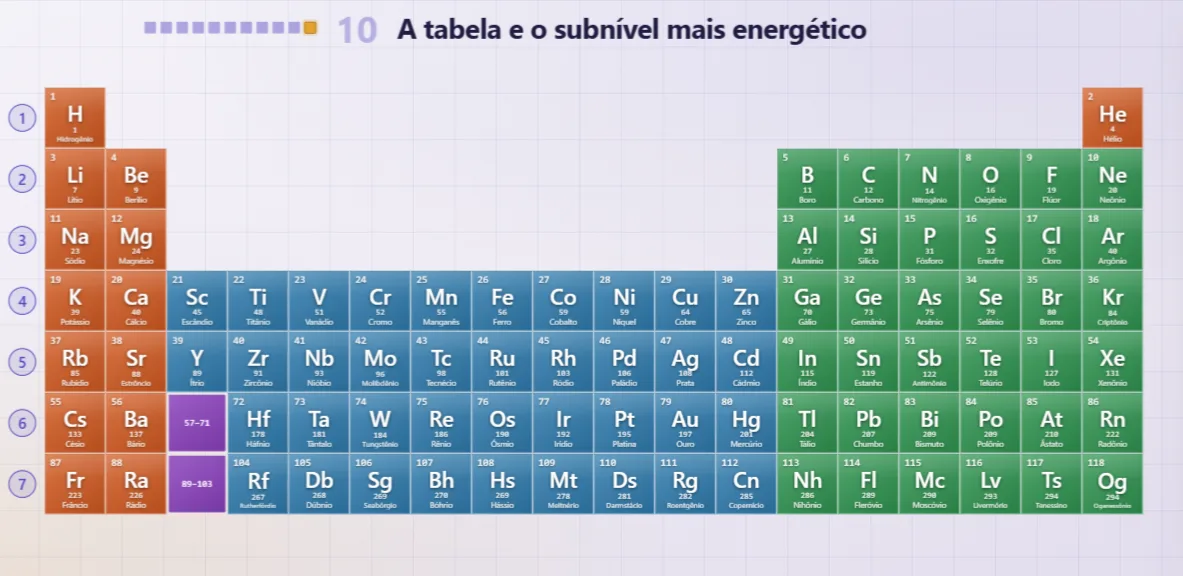
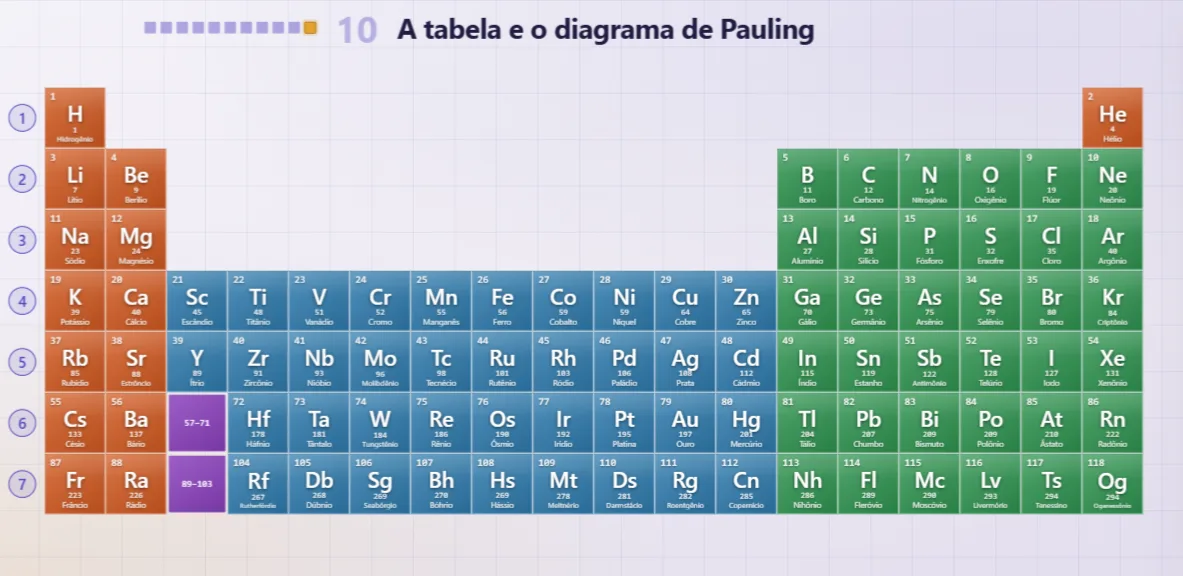
v8.7 · Slide 10: A tabela e o diagrama de Pauling

Changed region(s): [[0.4565, 0.0312, 0.7303, 0.0938]]

diff --git a/tabela-periodica.html b/tabela-periodica.html
@@ -2243,7 +2243,7 @@ const SLIDES = [
     subtitle:'' },
 
   /* o slide 11: a tabela pintada pelos blocos s, p, d e f */
-  { title:'A tabela e o subnível mais energético',
+  { title:'A tabela e o diagrama de Pauling',
     subtitle:'' }
 ];
 
@@ -2252,7 +2252,7 @@ const SLIDES = [
    worker recebe-a no endereço com que é registado (sw.js?v=…). Mudando
    este texto, muda o endereço, o aparelho instala o serviço novo e o
    cache velho vai-se embora — não há uma segunda versão para esquecer. */
-const VERSAO = 'v8.6';
+const VERSAO = 'v8.7';
 
 /* A CAPA NOVA — a ideia do Claude Design: fundo escuro, o título grande e
    claro à esquerda, a tabelinha apagada ao fundo à direita e o sódio, o
@@ -8615,7 +8615,7 @@ const NAV_TOPICOS = [
   /* ---- o slide 10 · A tabela e os elétrons de valência ---- */
   { titulo:'Início', sub:'o começo do slide', slide:9,
     entra(){ /* o recomeço do slide já é o tópico */ } },
-  /* ---- o slide 11 · A tabela e o subnível mais energético ---- */
+  /* ---- o slide 11 · A tabela e o diagrama de Pauling ---- */
   { titulo:'Início', sub:'o começo do slide', slide:10,
     entra(){ /* o recomeço do slide já é o tópico */ } },
   { titulo:'Jogo da memória', sub:'a narração do jogo, e o botão dele no canto', slide:1,
